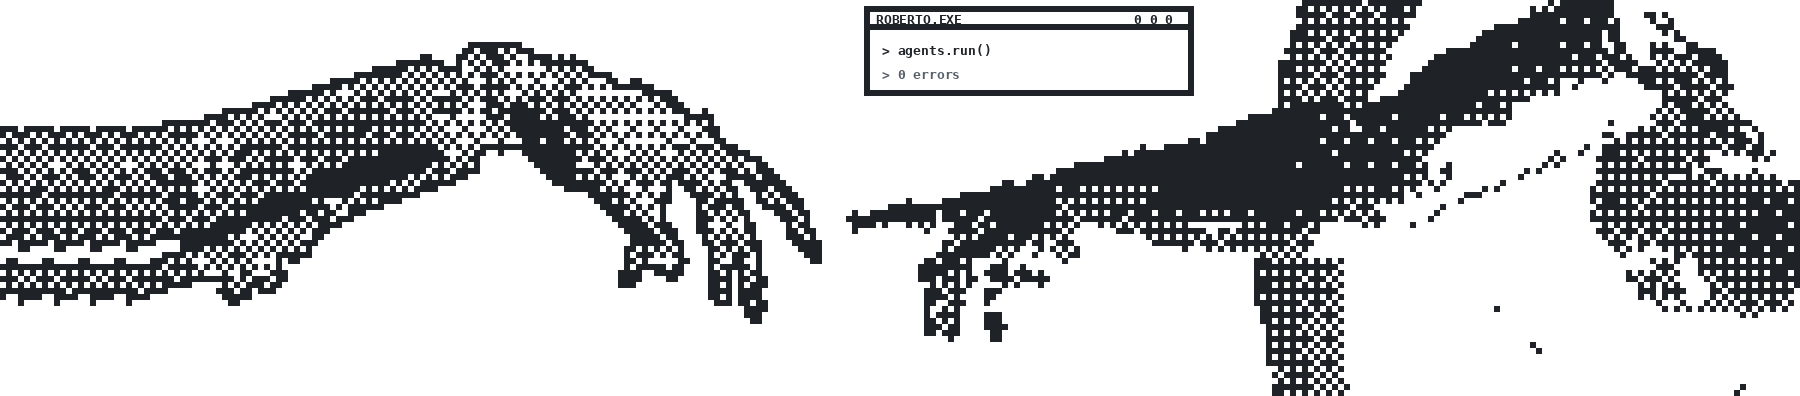
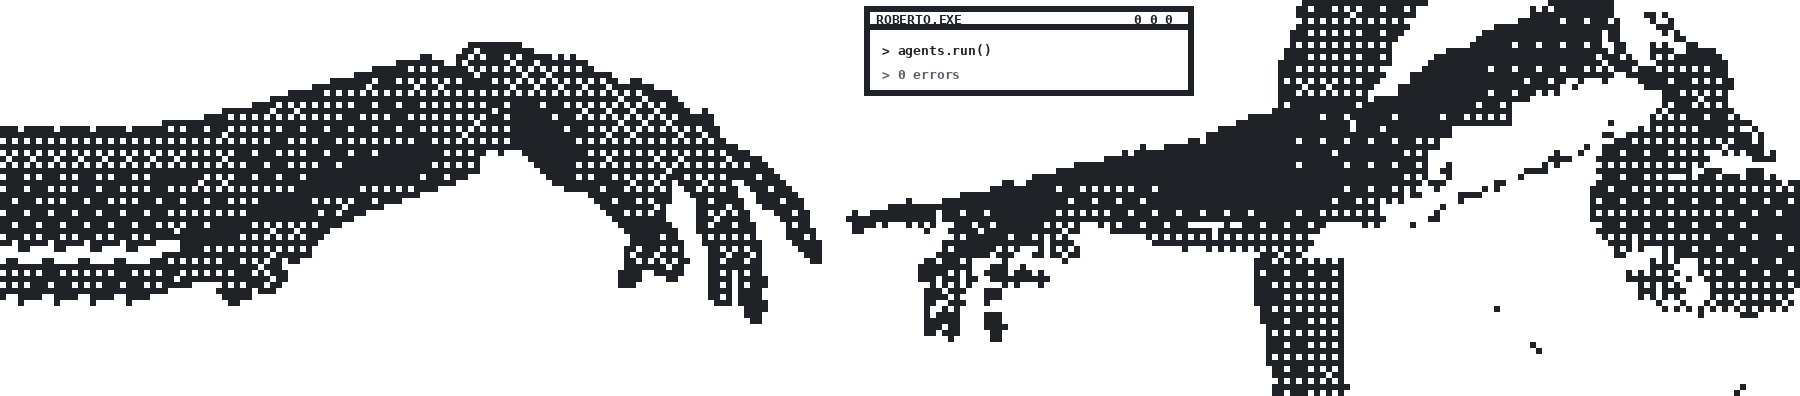
Capa mais clara, mesma densidade do retrato

diff --git a/scripts/banner.py b/scripts/banner.py
@@ -61,7 +61,7 @@ edge = robot - cv2.erode(robot, np.ones((3, 3), np.uint8))
 bayer = np.array([[0, 8, 2, 10], [12, 4, 14, 6], [3, 11, 1, 9], [15, 7, 13, 5]]) / 16
 th = np.tile(bayer, (ROWS // 4 + 1, COLS // 4 + 1))[:ROWS, :COLS]
 god = skin.copy(); god[:, :split] = False
-god_on = god & (lum * 0.7 + 0.42 > th)
+god_on = god & (lum * 0.45 + 0.6 > th)
 
 for theme, c in THEMES.items():
     im = Image.new("RGBA", (COLS * CELL, ROWS * CELL), (0, 0, 0, 0))
@@ -70,7 +70,7 @@ for theme, c in THEMES.items():
     for y in range(ROWS):
         for x in range(COLS):
             if robot[y, x]:
-                if edge[y, x] or rlum[y, x] * 0.8 + 0.3 > th[y, x]:
+                if edge[y, x] or rlum[y, x] * 0.45 + 0.6 > th[y, x]:
                     put(x, y, c["hi"])
             elif god_on[y, x]:
                 put(x, y, c["hi"] if lum[y, x] > 0.55 else c["mid"])
